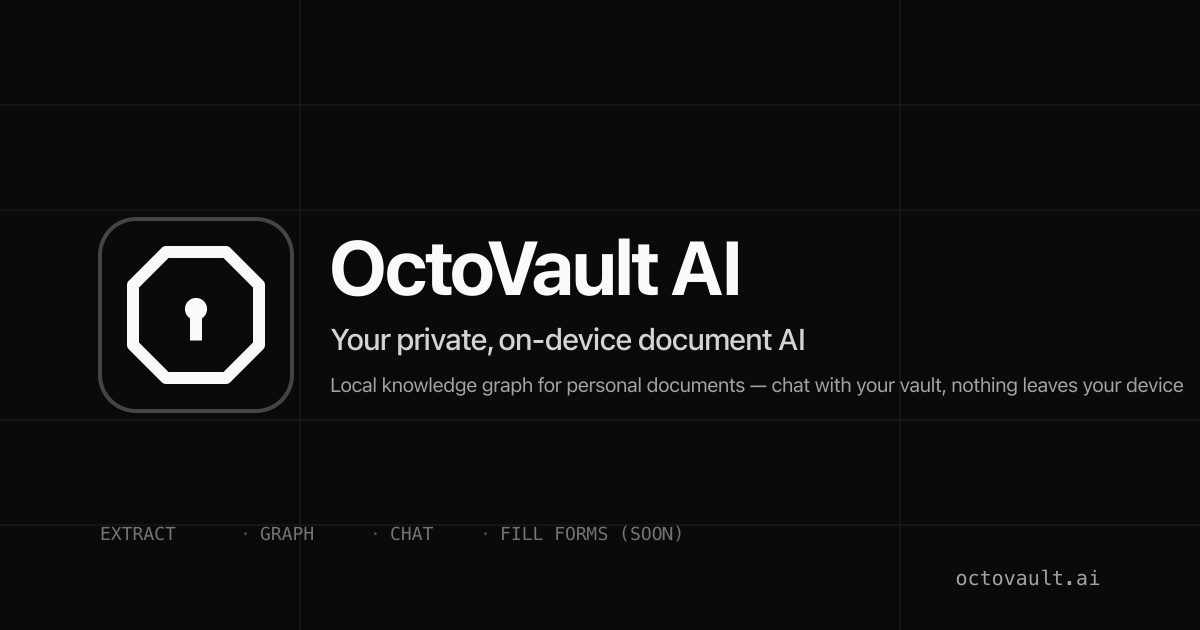
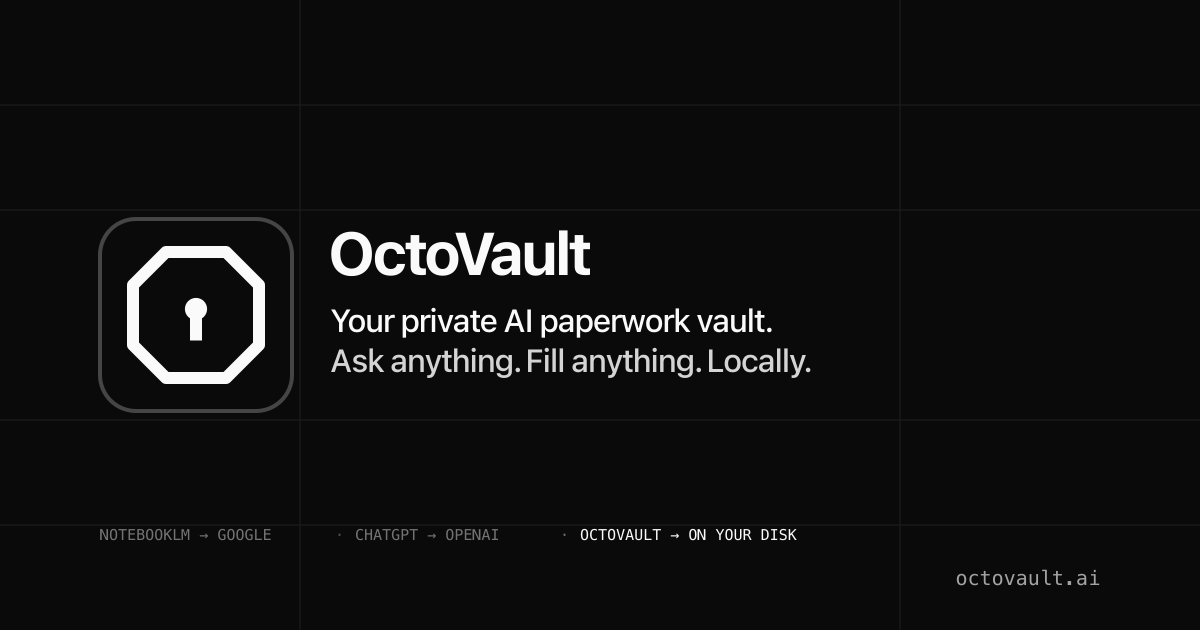
launch(landing): vault-first positioning + pricing + expanded comparison
Wedge: "Your private AI paperwork vault. Ask anything. Fill anything.
Locally." — vault first, Q&A as retention story, form-fill as
viral demo. Threat model surfaces in the same breath.

Hero:
- New H1: "Your private AI paperwork vault. / Ask anything. Fill
  anything. Locally."
- Sub-headline becomes the differentiation line: "NotebookLM uploads
  to Google. ChatGPT uploads to OpenAI. Obsidian doesn't act on your
  docs. OctoVault keeps your paperwork on disk and answers questions
  or fills forms from it."

SEO (full re-alignment with the new wedge):
- index.html <title>, <meta description>, og:title, og:description,
  twitter:title, twitter:description all updated.
- og-image.svg + regenerated PNG: drops the old "private on-device
  document AI" subtitle for "Ask anything. Fill anything. Locally."
  Threat-model row across the bottom: NOTEBOOKLM → GOOGLE ·
  CHATGPT → OPENAI · OCTOVAULT → ON YOUR DISK.
- noscript fallback (crawler-visible above-fold copy) updated to
  match.

Comparison table:
- Expanded from {OctoVault, Cloud doc AI, Password manager} to the
  actual named competitors: OctoVault · NotebookLM · ChatGPT (files)
  · Obsidian + AI · Filliny.
- New axes: documents stay on machine · reads your docs · answers
  with citations · fills web forms · knowledge-graph view · multi-
  entity · conflict detection · free tier · works offline.
- Lead sentence honest, not snarky: "Most tools either read your
[…]

diff --git a/packages/landing/src/Landing.tsx b/packages/landing/src/Landing.tsx
@@ -43,6 +43,7 @@ export function Landing() {
       <HotkeySpotlight />       {/* #6 Global hotkey ⌘⌥O */}
       <FloatingShortcutSpotlight /> {/* #7 Floating edge shortcut */}
       <Comparison />
+      <Pricing />
       <Faq />
       <Cta />
       <Footer />
@@ -53,7 +54,7 @@ export function Landing() {
 const NAV = [
   { label: "How it works", href: "#how" },
   { label: "Features",     href: "#features" },
-  { label: "Verify",       href: "#verify" },
+  { label: "Pricing",      href: "#pricing" },
   { label: "FAQ",          href: "#faq" },
   { label: "Report a Bug", href: "/bug-report" },
 ];
@@ -163,15 +164,15 @@ function Hero() {
           <span className="font-mono text-[10.5px]">github.com/CoderCouple/octo-vault-ai</span>
           <ArrowRight className="h-3 w-3 opacity-50 transition-transform group-hover:translate-x-0.5 group-hover:opacity-100" />
         </a>
-        <h1 className="mx-auto max-w-[820px] font-serif text-[34px] leading-[1.02] tracking-[-0.02em] md:text-[60px]">
-          Your documents.
+        <h1 className="mx-auto max-w-[860px] font-serif text-[34px] leading-[1.02] tracking-[-0.02em] md:text-[60px]">
+          Your private AI <span className="italic">paperwork vault</span>.
           <br />
-          Your <span className="italic">knowledge graph</span>.
+          Ask anything. Fill anything. Locally.
         </h1>
-        <p className="mx-auto mt-7 max-w-[620px] text-[15.5px] leading-relaxed text-muted-foreground md:text-[17.5px]">
-          OctoVault AI reads every PDF, image, and email on your device, links
-          every fact to its source, and turns it all into a queryable graph
-          that never leaves your laptop.
+        <p className="mx-auto mt-7 max-w-[680px] text-[15.5px] leading-relaxed text-muted-foreground md:text-[17.5px]">
+          NotebookLM uploads to Google. ChatGPT uploads to OpenAI. Obsidian
+          doesn't act on your docs. <span className="text-foreground font-medium">OctoVault keeps your paperwork on disk
+          and answers questions or fills forms from it.</span>
         </p>
         <div className="mt-9 flex flex-col items-center justify-center gap-3 sm:flex-row">
           <a
@@ -2632,15 +2633,19 @@ function FloatingShortcutWidget() {
 // ──────────────────────────────────────────────────────────────────────────────
 
 type Cell = boolean | "partial" | "soon";
-const COMPARISON_ROWS: ReadonlyArray<readonly [string, Cell, Cell, Cell]> = [
-  ["Documents stay on device",          true,  false,     true],
-  ["Multi-entity (you + family)",       true,  false,     "partial"],
-  ["AI chat with source citations",     true,  true,      false],
-  ["Knowledge-graph view",              true,  false,     false],
-  ["One-click web form-fill",           "soon", "partial", false],
-  ["Chrome side panel",                 "soon", true,      false],
-  ["Encrypted local vault",             true,  false,     true],
-  ["Works fully offline",               true,  false,     true],
+// Columns: OctoVault · NotebookLM · ChatGPT (with file upload) ·
+// Obsidian-AI plugins · Filliny (form-fill extension). Honest reads —
+// don't snark; let the threat-model + capability mix tell the story.
+const COMPARISON_ROWS: ReadonlyArray<readonly [string, Cell, Cell, Cell, Cell, Cell]> = [
+  ["Documents stay on your machine",       true,  false,    false,   true,     true],
+  ["Reads your personal documents",        true,  true,     true,    "partial",false],
+  ["Answers questions with citations",     true,  true,     true,    "partial",false],
+  ["Fills web forms from your docs",       "soon",false,    false,   false,    true],
+  ["Knowledge-graph view (sources)",       true,  false,    false,   false,    false],
+  ["Multi-entity (you + family)",          true,  false,    false,   false,    "partial"],
+  ["Conflict detection",                   true,  false,    false,   false,    false],
+  ["Free tier",                            true,  true,     true,    true,     "partial"],
+  ["Works fully offline",                  true,  false,    false,   true,     false],
 ];
 
 function Comparison() {
@@ -2649,23 +2654,32 @@ function Comparison() {
       <div className="mx-auto max-w-[1200px] px-6 py-24 md:py-32">
         <SectionEyebrow>Versus the alternatives</SectionEyebrow>
         <SectionTitle>What you get, what you don't have to give up.</SectionTitle>
-        <div className="mt-12 overflow-hidden rounded-2xl border border-border">
-          <table className="w-full text-sm">
+        <p className="mt-4 max-w-[680px] text-[14.5px] leading-relaxed text-muted-foreground">
+          Most tools either read your docs or fill your forms.
+          Most tools either ship your docs to a server or refuse to act
+          on them. OctoVault is the one that does both, on disk.
+        </p>
+        <div className="mt-12 overflow-x-auto rounded-2xl border border-border">
+          <table className="w-full min-w-[860px] text-sm">
             <thead>
-              <tr className="border-b border-border bg-card text-[11px] uppercase tracking-wider text-muted-foreground">
+              <tr className="border-b border-border bg-card text-[10.5px] uppercase tracking-wider text-muted-foreground">
                 <th className="p-4 text-left"></th>
-                <th className="p-4 text-left">OctoVault AI</th>
-                <th className="p-4 text-left">Cloud doc AI</th>
-                <th className="p-4 text-left">Password manager</th>
+                <th className="p-4 text-left text-foreground">OctoVault</th>
+                <th className="p-4 text-left">NotebookLM</th>
+                <th className="p-4 text-left">ChatGPT (files)</th>
+                <th className="p-4 text-left">Obsidian + AI</th>
+                <th className="p-4 text-left">Filliny</th>
               </tr>
             </thead>
             <tbody>
-              {COMPARISON_ROWS.map(([label, a, b, c]) => (
+              {COMPARISON_ROWS.map(([label, a, b, c, d, e]) => (
                 <tr key={label} className="border-b border-border last:border-0">
                   <td className="p-4 text-[13.5px]">{label}</td>
                   <CompCell v={a} />
                   <CompCell v={b} />
                   <CompCell v={c} />
+                  <CompCell v={d} />
+                  <CompCell v={e} />
                 </tr>
               ))}
             </tbody>
@@ -2684,6 +2698,150 @@ function CompCell({ v }: { v: Cell }) {
        : v === "soon" ? <span className="inline-block rounded-full border border-border bg-card px-2 py-0.5 text-[10px] font-medium uppercase tracking-wider text-muted-foreground">Soon</span>
        : <span className="text-[11px] uppercase tracking-wider text-muted-foreground">partial</span>}
     </td>
+  );
+}
+
+// ──────────────────────────────────────────────────────────────────────────────
+// Pricing — three tiers. Free is generous on purpose; Pro is the
+// daily-use upgrade; the Lifetime deal is the Show-HN-day evangelism
+// incentive, capped to keep it credible.
+// ──────────────────────────────────────────────────────────────────────────────
+
+interface PricingTier {
+  id: "free" | "pro" | "lifetime";
+  name: string;
+  price: string;
+  cadence: string;
+  blurb: string;
+  features: string[];
+  cta: string;
+  ctaHref: string;
+  highlight?: boolean;
+  badge?: string;
+}
+
+const PRICING_TIERS: PricingTier[] = [
+  {
+    id: "free",
+    name: "Free",
+    price: "$0",
+    cadence: "forever",
+    blurb: "Personal use. The whole product, with sensible limits.",
+    features: [
+      "Up to 200 documents in your vault",
+      "50 chat questions per day",
+      "15 form-fills per month (when extension ships)",
+      "All local models (qwen3:8b, nomic-embed-text)",
+      "Full knowledge-graph view + conflict resolution",
+      "Encrypted local vault (SQLCipher)",
+    ],
+    cta: "Download for Mac",
+    ctaHref: "#hero",
+  },
+  {
+    id: "pro",
+    name: "Pro",
+    price: "$9",
+    cadence: "/month, or $79/year",
+    blurb: "Heavy users — daily Q&A, weekly form-fills, multi-vault.",
+    features: [
+      "Unlimited documents, questions, and form-fills",
+      "Multi-vault support (e.g. you + business + family)",
+      "Premium local models (Qwen3-VL, larger context)",
+      "Priority bug-fix queue",
+      "Early access to side panel + vision OCR",
+      "Everything in Free",
+    ],
+    cta: "Start with Pro",
+    ctaHref: "#waitlist",
+    highlight: true,
+  },
+  {
+    id: "lifetime",
+    name: "Lifetime",
+    price: "$179",
+    cadence: "once · capped at 200 buyers",
+    blurb: "Show HN day-of supporters. Lock in everything forever.",
+    features: [
+      "All Pro features, for life",
+      "Founder Discord — direct line to the team",
+      "Name in the credits screen (opt-in)",
+      "First crack at every new feature",
+      "Free upgrades — no surprise tier splits",
+      "Counter visible below; honest cap",
+    ],
+    cta: "Grab a lifetime seat",
+    ctaHref: "#waitlist",
+    badge: "Launch only",
+  },
+];
+
+function Pricing() {
+  return (
+    <section id="pricing" className="border-t border-border bg-background">
+      <div className="mx-auto max-w-[1200px] px-6 py-24 md:py-32">
+        <SectionEyebrow>Pricing</SectionEyebrow>
+        <SectionTitle>Free forever for personal use. Pro for everything else.</SectionTitle>
+        <p className="mt-4 max-w-[680px] text-[14.5px] leading-relaxed text-muted-foreground">
+          We don't bill by document, by token, or by entity. The model
+          runs on your machine — your CPU is the bottleneck, not our
+          balance sheet. Limits exist only where infrastructure does
+          (server-side anything is future Pro territory).
+        </p>
+        <div className="mt-12 grid grid-cols-1 gap-6 md:grid-cols-3">
+          {PRICING_TIERS.map((t) => (
+            <PricingCard key={t.id} t={t} />
+          ))}
+        </div>
+        <p className="mt-8 text-center text-[12px] text-muted-foreground">
+          Prices in USD · no card required for Free · 30-day refund on Pro and Lifetime
+        </p>
+      </div>
+    </section>
+  );
+}
+
+function PricingCard({ t }: { t: PricingTier }) {
+  return (
+    <div
+      className={`flex flex-col rounded-2xl border p-6 ${
+        t.highlight
+          ? "border-foreground bg-card shadow-[0_24px_70px_-30px_rgba(0,0,0,0.45)]"
+          : "border-border bg-card/40"
+      }`}
+    >
+      <div className="flex items-center justify-between">
+        <h3 className="text-[18px] font-semibold tracking-tight">{t.name}</h3>
+        {t.badge && (
+          <span className="rounded-full border border-border bg-background px-2 py-0.5 text-[10px] font-semibold uppercase tracking-wider text-muted-foreground">
+            {t.badge}
+          </span>
+        )}
+      </div>
+      <div className="mt-3 flex items-baseline gap-2">
+        <span className="text-[36px] font-bold tracking-tight">{t.price}</span>
+        <span className="text-[12px] text-muted-foreground">{t.cadence}</span>
+      </div>
+      <p className="mt-3 text-[13px] leading-relaxed text-muted-foreground">{t.blurb}</p>
+      <ul className="mt-5 space-y-2 text-[13px]">
+        {t.features.map((f) => (
+          <li key={f} className="flex items-start gap-2">
+            <Check className="mt-0.5 h-3.5 w-3.5 shrink-0 text-foreground" />
+            <span className="leading-relaxed">{f}</span>
+          </li>
+        ))}
+      </ul>
+      <a
+        href={t.ctaHref}
+        className={`mt-6 inline-flex h-10 w-full items-center justify-center rounded-md text-[13px] font-semibold transition-colors ${
+          t.highlight
+            ? "bg-foreground text-background hover:bg-foreground/90"
+            : "border border-border bg-background hover:bg-accent"
+        }`}
+      >
+        {t.cta}
+      </a>
+    </div>
   );
 }
 

diff --git a/packages/landing/index.html b/packages/landing/index.html
@@ -7,8 +7,8 @@
     <meta name="theme-color" content="#0a0a0a" media="(prefers-color-scheme: dark)" />
 
     <!-- Primary -->
-    <title>OctoVault AI — your private, on-device document AI</title>
-    <meta name="description" content="OctoVault AI is a local-first knowledge graph for your personal documents. Drop in passports, IDs, leases, bills — it extracts every fact, links it back to the source, and lets you chat with the result. Nothing leaves your device." />
+    <title>OctoVault — your private AI paperwork vault. Ask anything. Fill anything. Locally.</title>
+    <meta name="description" content="NotebookLM uploads to Google. ChatGPT uploads to OpenAI. Obsidian doesn't act on your docs. OctoVault keeps your paperwork on disk and answers questions or fills forms from it." />
     <link rel="canonical" href="https://octovault.ai/" />
     <link rel="icon" type="image/svg+xml" href="/favicon.svg" />
     <link rel="apple-touch-icon" href="/favicon.svg" />
@@ -16,8 +16,8 @@
     <!-- Open Graph (Facebook, LinkedIn, Slack, Discord, Notion, …) -->
     <meta property="og:type" content="website" />
     <meta property="og:url" content="https://octovault.ai/" />
-    <meta property="og:title" content="OctoVault AI — your private, on-device document AI" />
-    <meta property="og:description" content="Local-first knowledge graph for your personal documents. Extract every fact, link it to its source, chat with your vault — nothing leaves your device." />
+    <meta property="og:title" content="OctoVault — your private AI paperwork vault. Ask anything. Fill anything. Locally." />
+    <meta property="og:description" content="NotebookLM uploads to Google. ChatGPT uploads to OpenAI. Obsidian doesn't act on your docs. OctoVault keeps your paperwork on disk and answers questions or fills forms from it." />
     <!-- Real raster (Twitter/Facebook/iMessage/Slack all accept PNG). -->
     <meta property="og:image" content="https://octovault.ai/og-image.png" />
     <meta property="og:image:secure_url" content="https://octovault.ai/og-image.png" />
@@ -31,8 +31,8 @@
     <!-- Twitter / X -->
     <meta name="twitter:card" content="summary_large_image" />
     <meta name="twitter:url" content="https://octovault.ai/" />
-    <meta name="twitter:title" content="OctoVault AI — your private, on-device document AI" />
-    <meta name="twitter:description" content="Local-first knowledge graph for your personal documents. Extract every fact, link it to its source, chat with your vault — nothing leaves your device." />
+    <meta name="twitter:title" content="OctoVault — your private AI paperwork vault. Ask anything. Fill anything. Locally." />
+    <meta name="twitter:description" content="NotebookLM uploads to Google. ChatGPT uploads to OpenAI. Obsidian doesn't act on your docs. OctoVault keeps your paperwork on disk and answers questions or fills forms from it." />
     <meta name="twitter:image" content="https://octovault.ai/og-image.png" />
     <meta name="twitter:image:alt" content="OctoVault AI — your private, on-device document AI" />
 
@@ -89,13 +89,13 @@
       <main style="max-width:760px;margin:48px auto;padding:0 24px;font-family:system-ui,sans-serif;color:#0a0a0a;line-height:1.6;">
         <header>
           <h1 style="font-size:36px;line-height:1.1;letter-spacing:-0.01em;margin:0 0 16px;">
-            OctoVault AI — your private, on-device document AI
+            Your private AI paperwork vault. Ask anything. Fill anything. Locally.
           </h1>
           <p style="font-size:18px;color:#525252;margin:0 0 24px;">
-            A local-first knowledge graph for your personal documents.
-            Drop in a passport, a lease, a paystub — every fact gets
-            extracted, linked back to the document it came from, and
-            made instantly searchable. Nothing leaves your device.
+            NotebookLM uploads to Google. ChatGPT uploads to OpenAI.
+            Obsidian doesn't act on your docs. OctoVault keeps your
+            paperwork on disk and answers questions or fills forms
+            from it.
           </p>
           <p>
             <a href="#waitlist" style="background:#0a0a0a;color:#fafafa;padding:10px 18px;border-radius:6px;text-decoration:none;font-weight:600;">
